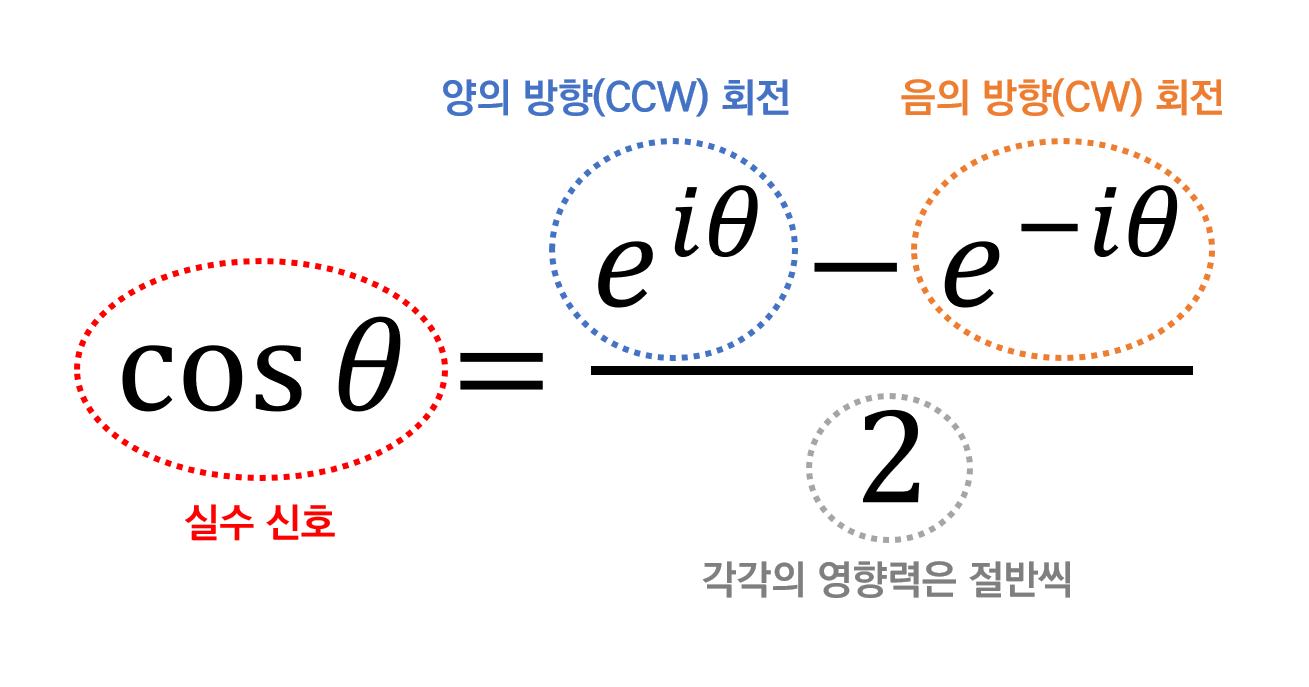
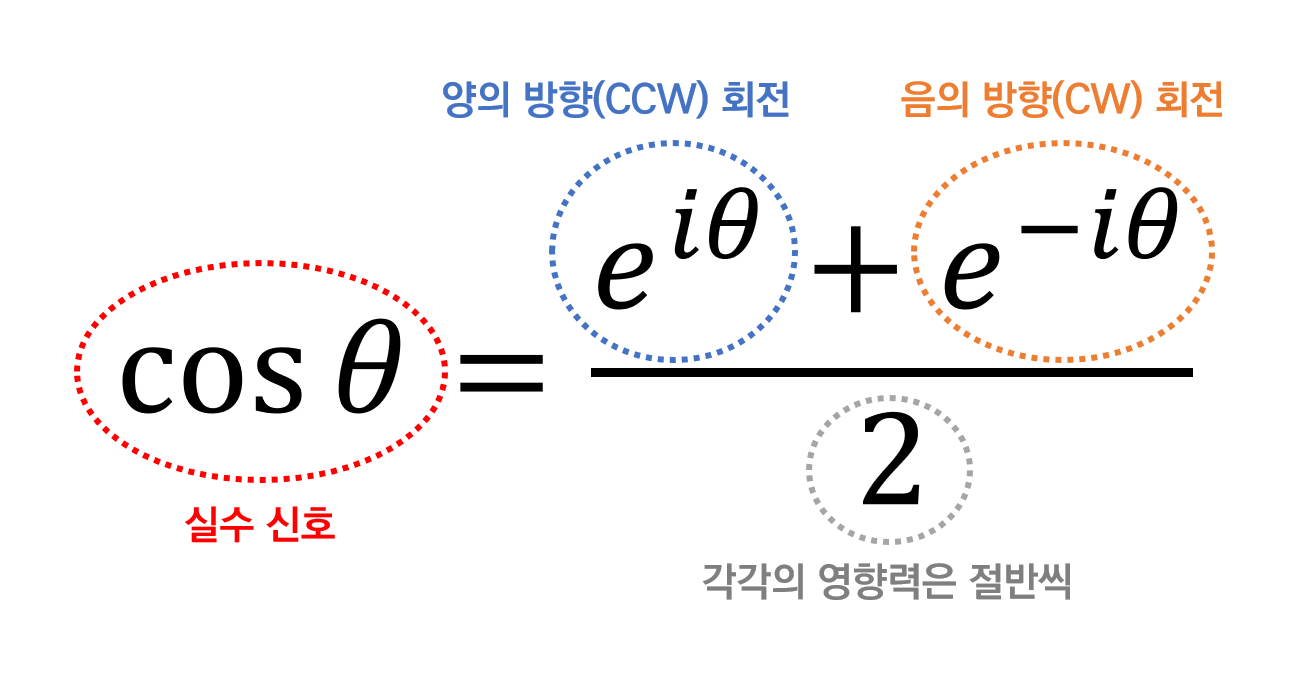
negative frequency / pic2 수정

diff --git a/_posts/2019-07-22-Negative_Frequency.md b/_posts/2019-07-22-Negative_Frequency.md
@@ -38,7 +38,7 @@ tags: 신호처리 푸리에
 ## FFT 결과를 얻게되면 우리가 보는 것
 
 <p align = "center">
-  <img width = "350" src = "https://raw.githubusercontent.com/angeloyeo/angeloyeo.github.io/master/pics/negative_frequency/pic1.png">
+  <img width = "500" src = "https://raw.githubusercontent.com/angeloyeo/angeloyeo.github.io/master/pics/negative_frequency/pic1.png">
   <br>
   그림 1. 10Hz 신호를 FFT 했을 때 얻게 되는 결과
 </p>
@@ -73,4 +73,11 @@ $$\cos(\theta) = \frac{e^{i\theta}+ e^{-i\theta}}{2}$$
 $$\sin(\theta) = \frac{e^{i\theta} - e^{-i\theta}}{2i}$$
 
 여기서 우리가 특별히 주목하고 싶은 식은 식(3)이다. 식 (3)을 자세히 뜯어보면 다음과 같다.
+
+
+<p align = "center">
+  <img width = "500" src = "https://raw.githubusercontent.com/angeloyeo/angeloyeo.github.io/master/pics/negative_frequency/pic2.png">
+  <br>
+  그림 2. 코사인 함수를 생각할 수 있는 또 다른 방법
+</p>
 
